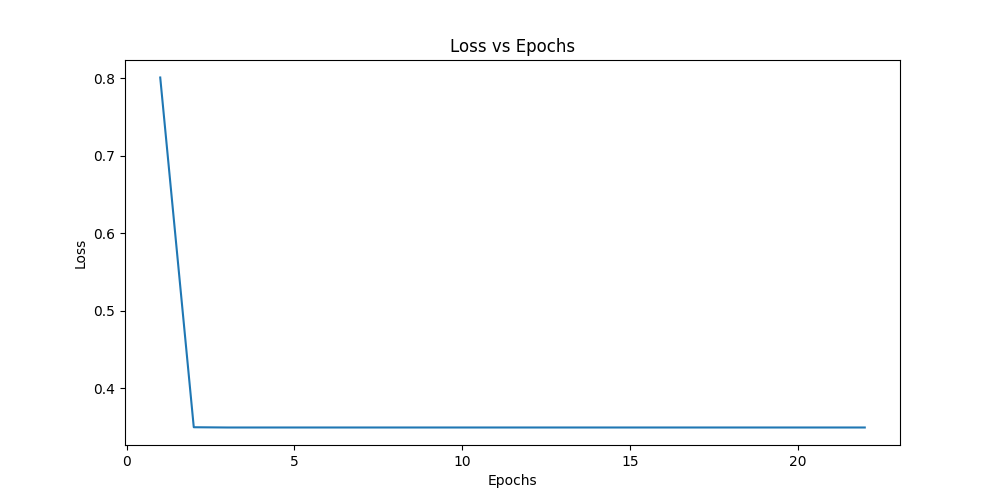
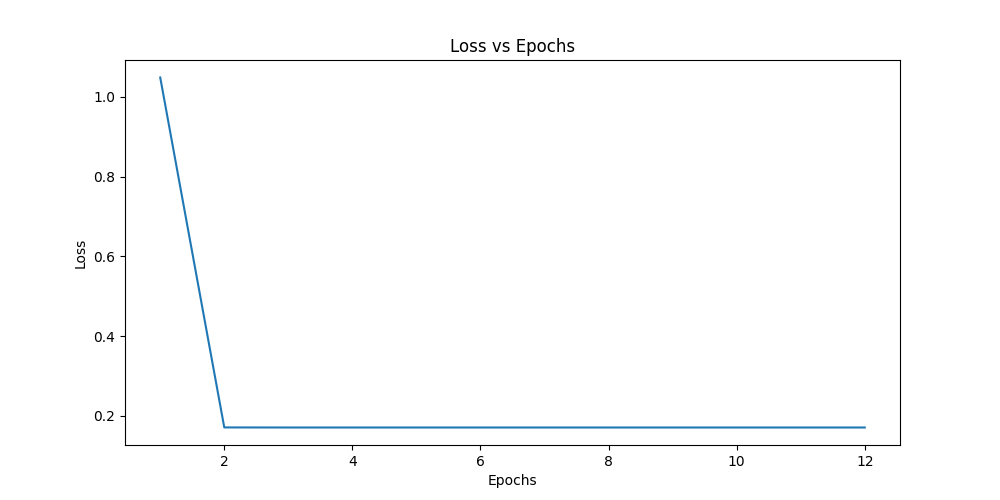
vae now works with reparam

diff --git a/tinydas/utils.py b/tinydas/utils.py
@@ -7,11 +7,10 @@ from typing import List
 import h5py
 import numpy as np
 import yaml
-from tinygrad import Device, dtypes
+from tinygrad import Device, dtypes, TinyJit
 from tinygrad.nn import Tensor
 from tinygrad.nn.state import get_state_dict, load_state_dict, safe_load, safe_save
 from tinygrad.helpers import colored
-from tinydas.timer import Timer
 
 
 def get_size_in_gb(t: Tensor) -> float:
@@ -125,12 +124,13 @@ def load_model(model):
     print(f"Model loaded from {path}")
 
 
-def reparameterize(mu: Tensor, logvar: Tensor) -> Tensor:
+@TinyJit
+def reparameterize(mu: Tensor, logvar: Tensor, devices: List[str]) -> Tensor:
     std = (0.5 * logvar).exp()
-    eps = Tensor.randn(*std.shape)
-    return eps.mul(std).add(mu)
+    eps = Tensor.randn(*std.shape, device=devices)
+    return eps.mul(std).add(mu).realize()
 
-        
+
 def load_das_file(filename: str):
     """Loads a single das file in to a tuple of the data and the timestamps."""
     with h5py.File(filename, "r") as f:
@@ -138,10 +138,8 @@ def load_das_file(filename: str):
         times = Tensor(f["timestamp"][:], requires_grad=False)
     return data, times
 
-
 def minmax(data: Tensor) -> Tensor:
-    #return data.sub(data.min()).div(data.max().sub(data.min()))
-    return (data - data.min()) / (data.max() - data.min())
+    return data.sub(data.min()).div(data.max().sub(data.min()))
 
 def zscore(data: Tensor) -> Tensor:
     return data.sub(data.mean()).div(data.std())

diff --git a/tinydas/trainer.py b/tinydas/trainer.py
@@ -19,17 +19,15 @@ class Trainer:
         model: BaseAE,
         dataloader: DataLoader,
         optimizer: Optimizer,
-        devices: List[str],
         **kwargs,
     ) -> None:
         self.shape = (kwargs["mod"]["M"], kwargs["mod"]["N"])
         self.model = model
         self.dataloader = dataloader
         self.optim = optimizer
-        self.devices = devices
         self.best_loss = float("inf")
         self.epochs = kwargs["epochs"] if kwargs["epochs"] else 10
-        self.losses = []
+        self.losses = [float(0)] * self.epochs
         self.early_stopping = EarlyStopping(
             kwargs["es"]["patience"], kwargs["es"]["min_delta"]
         )
@@ -59,7 +57,7 @@ class Trainer:
             with Timer() as t:
                 for data in self.dataloader:
                     running_loss += self.train_step(data, reshape_fn).numpy().item()
-            self.losses.append(running_loss)
+            self.losses[epoch] = running_loss
 
             printing(epoch, self.epochs, running_loss, t.interval)
 
@@ -70,6 +68,7 @@ class Trainer:
             self.early_stopping(running_loss)
             if self.early_stopping.early_stop:
                 print(f"Early stopping at epoch {epoch}")
+                self.losses = self.losses[:epoch + 1]
                 save_model(self.model, final=True)
                 plot_loss(self.losses, self.model)
                 return

diff --git a/tinydas/models/vae.py b/tinydas/models/vae.py
@@ -53,8 +53,9 @@ class Decoder:
 
 
 class VAE(BaseAE):
-    def __init__(self, **kwargs):
+    def __init__(self, devices: List[str], **kwargs):
         super().__init__()
+        self.devices = devices
 
         hidden_layers = kwargs["mod"]["hidden_layers"]
 
@@ -82,7 +83,7 @@ class VAE(BaseAE):
 
     def __call__(self, x: Tensor) -> Tuple[Tensor, ...]:
         mu, logvar = self.encoder(x)
-        z = reparameterize(mu, logvar)
+        z = reparameterize(mu, logvar, self.devices)
         return self.decoder(z), mu, logvar
 
     def criterion(self, x: Tensor) -> Dict[str, Tensor]:

diff --git a/main.py b/main.py
@@ -33,7 +33,7 @@ def train_mode(args):
 
     dl = get_data(devices, **config)
 
-    model = select_model(args.model, **config)
+    model = select_model(args.model, devices, **config)
 
     if args.load: load_model(model)
 
@@ -48,7 +48,7 @@ def train_mode(args):
     params = nn.state.get_parameters(model)
     optim = select_optimizer(Opti.ADAM, params, **config["opt"])
 
-    trainer = Trainer(model, dl, optim, devices, **config)
+    trainer = Trainer(model, dl, optim, **config)
     trainer.train()
 
     plot_loss(trainer.losses, trainer.model, save=True)

diff --git a/tinydas/selections.py b/tinydas/selections.py
@@ -37,12 +37,12 @@ def select_optimizer(optimizer: Opti, parameters: List[Tensor], **config) -> Opt
             )
 
 
-def select_model(model: str, **config):
+def select_model(model: str, devices: List[str], **config):
     match model.lower():
         case "ae":
             return AE(**config)
         case "vae":
-            return VAE(**config)
+            return VAE(devices, **config)
         case "cnnae":
             return CNNAE(**config)
         case "betavae":

diff --git a/tinydas/dataset.py b/tinydas/dataset.py
@@ -34,8 +34,6 @@ class Dataset:
         filename = self.filenames[idx]
         data, _ = load_das_file(filename)
         
-        if self.transpose: data = data.T
-        
         if self.normalize:
             data = self._apply_normalization(data)
 
